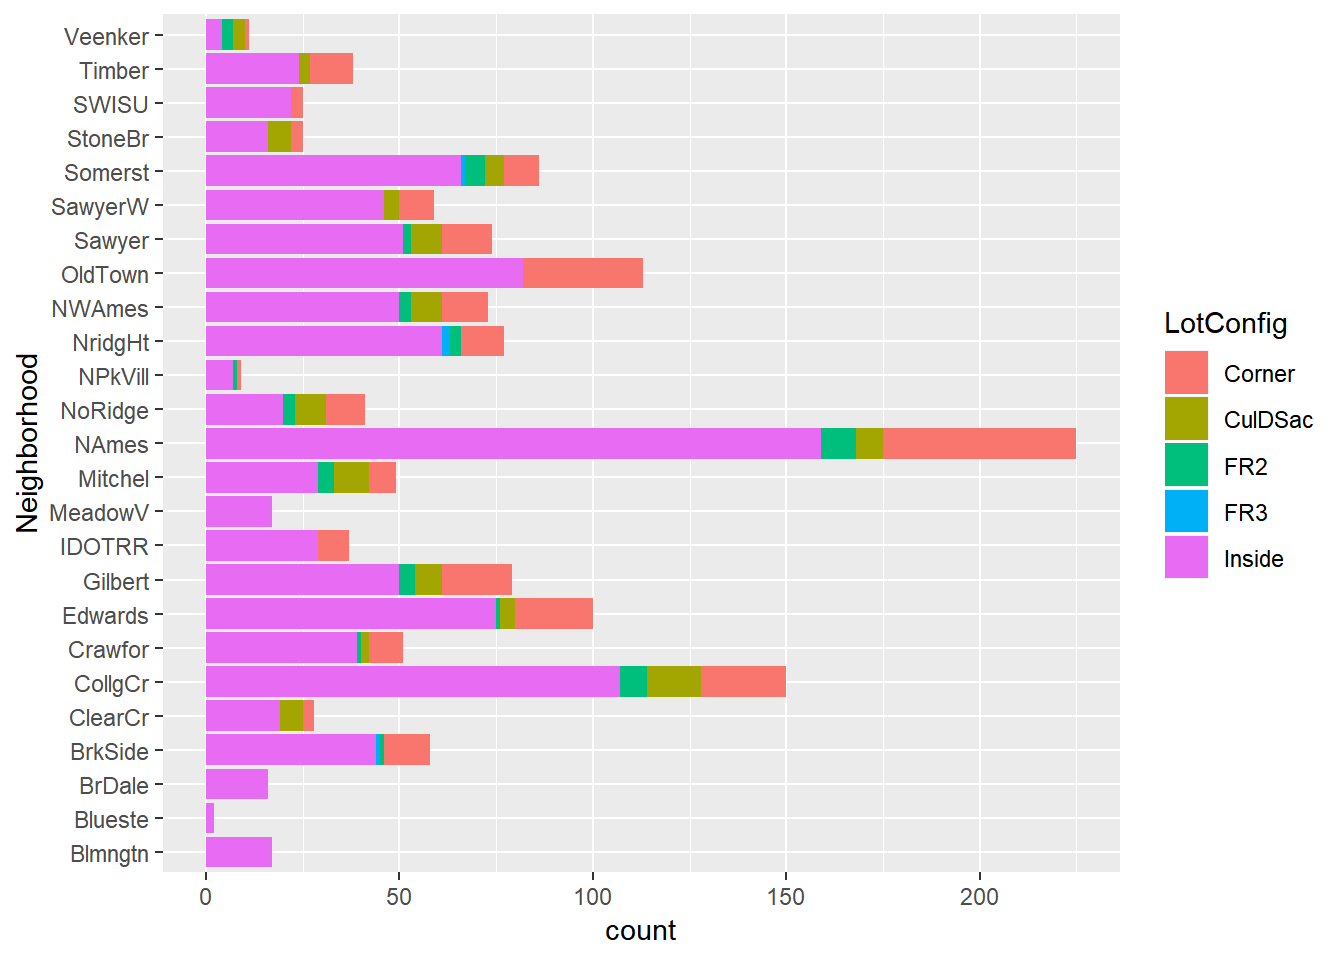
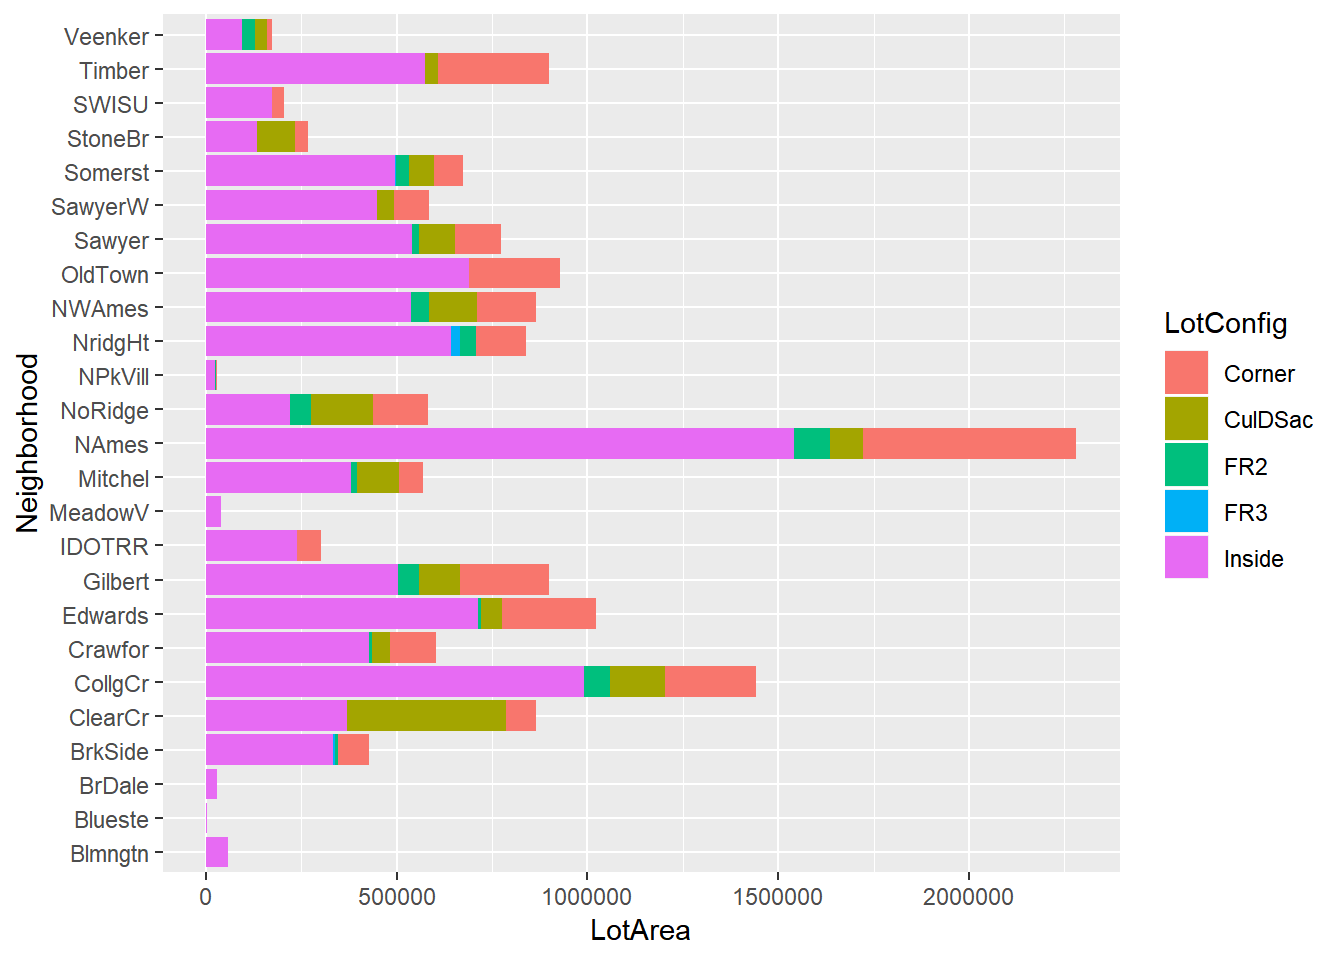
vid

diff --git a/content/post/2019-01-04-blogs.html b/content/post/2019-01-04-blogs.html
@@ -52,6 +52,6 @@ summary(housing.filt)
 </div>
 <div id="below-you-will-see-a-beautiful-bar-chart" class="section level1">
 <h1>Below you will see a beautiful bar chart</h1>
-<pre class="r"><code>ggplot(housing.filt) + geom_bar(aes(Neighborhood,fill=LotConfig)) + coord_flip()</code></pre>
+<pre class="r"><code>ggplot(housing.filt) + geom_col(aes(Neighborhood,LotArea,fill=LotConfig)) + coord_flip()</code></pre>
 <p><img src="/post/2019-01-04-blogs_files/figure-html/unnamed-chunk-1-1.png" width="672" /></p>
 </div>

diff --git a/content/videos.html b/content/videos.html
@@ -1,0 +1,15 @@
+---
+title: "Check These Out"
+author: "Aman Maru"
+date: "January 4, 2019"
+output: html_document
+---
+
+
+
+<div id="r-markdown" class="section level2">
+<h2>R Markdown</h2>
+<pre class="r"><code>knitr::include_url(&quot;https://www.youtube.com/embed/2L515SmPbRw&quot;)</code></pre>
+<iframe src="https://www.youtube.com/embed/2L515SmPbRw" width="672" height="400px">
+</iframe>
+</div>
